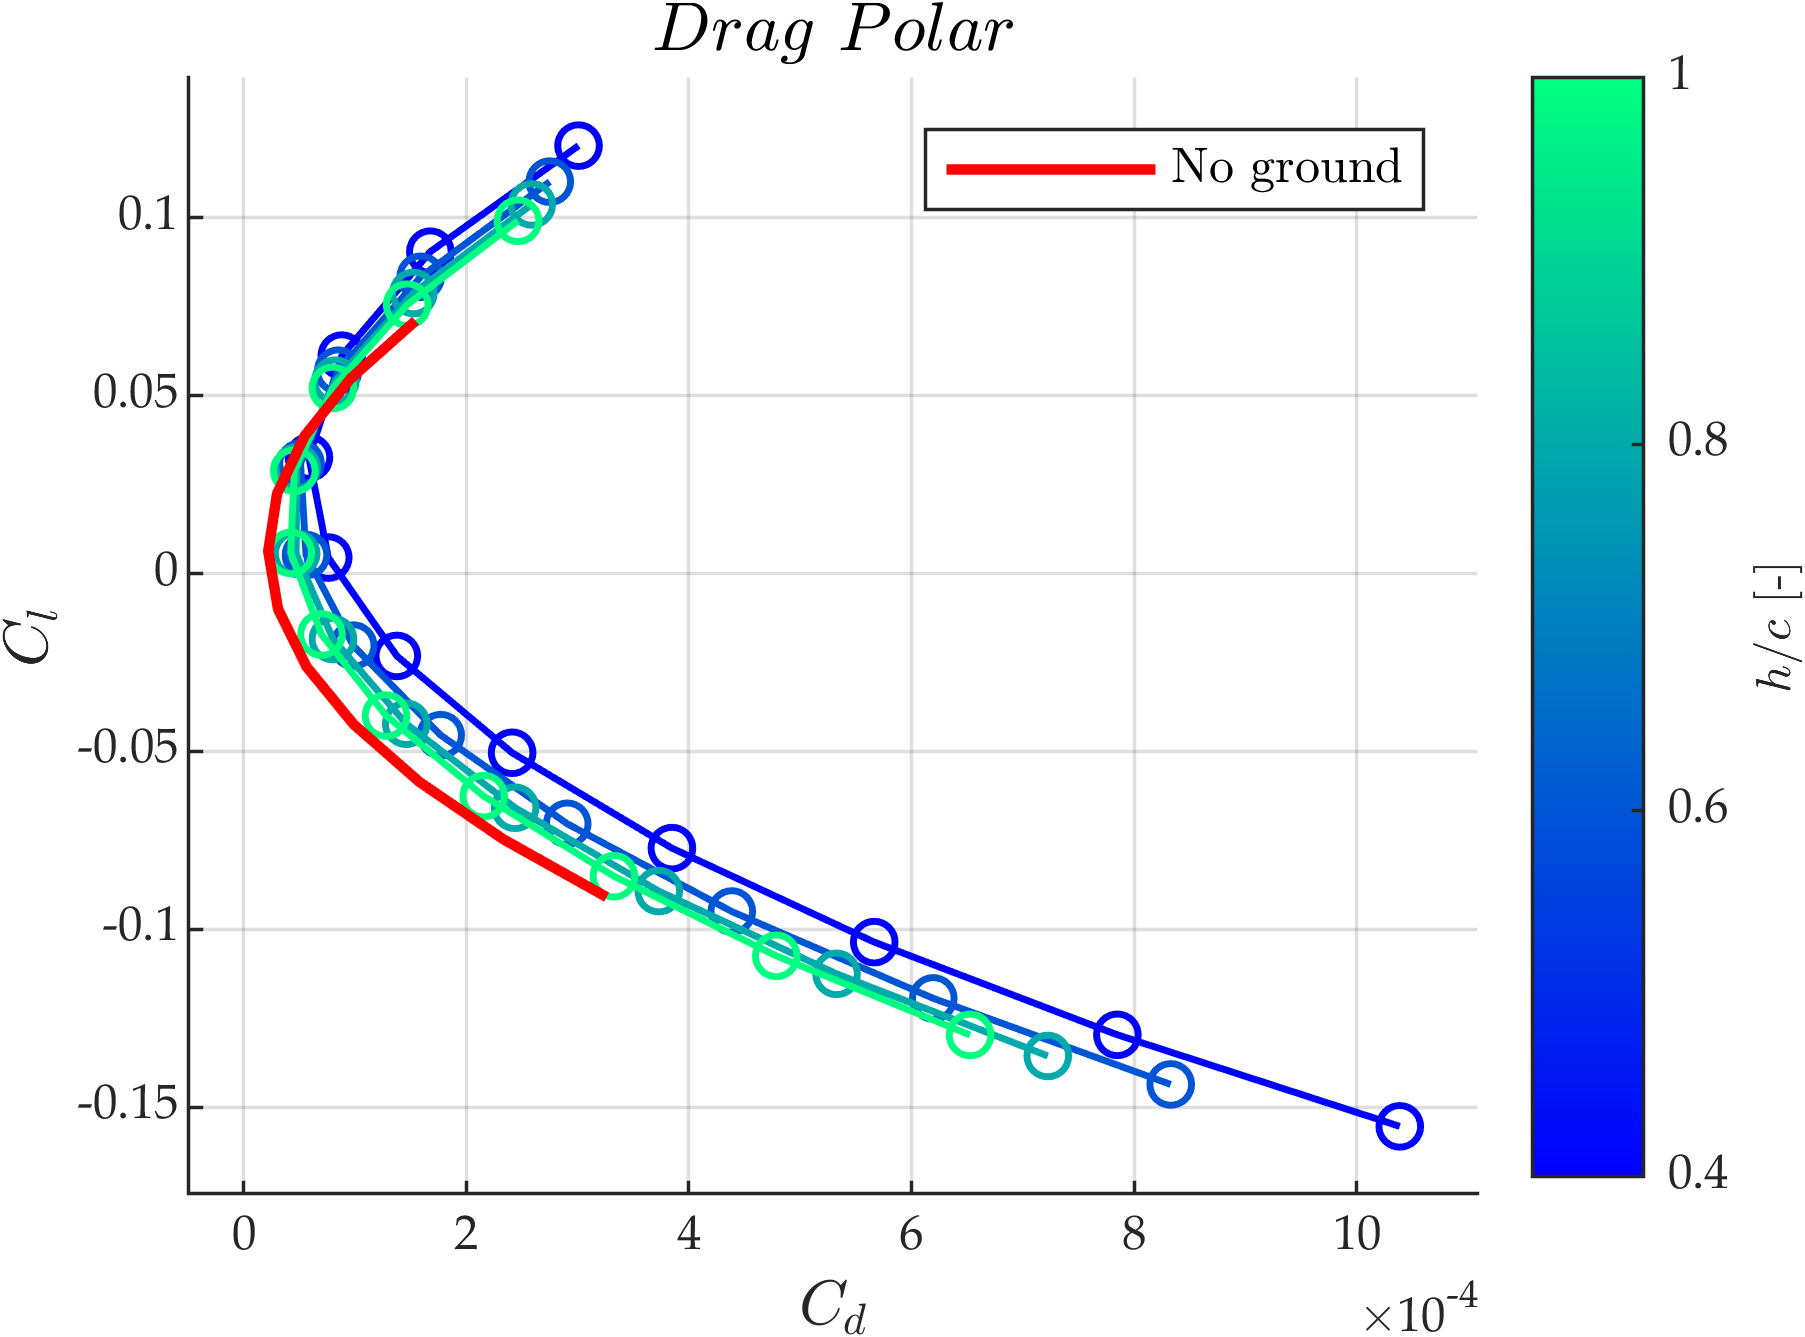
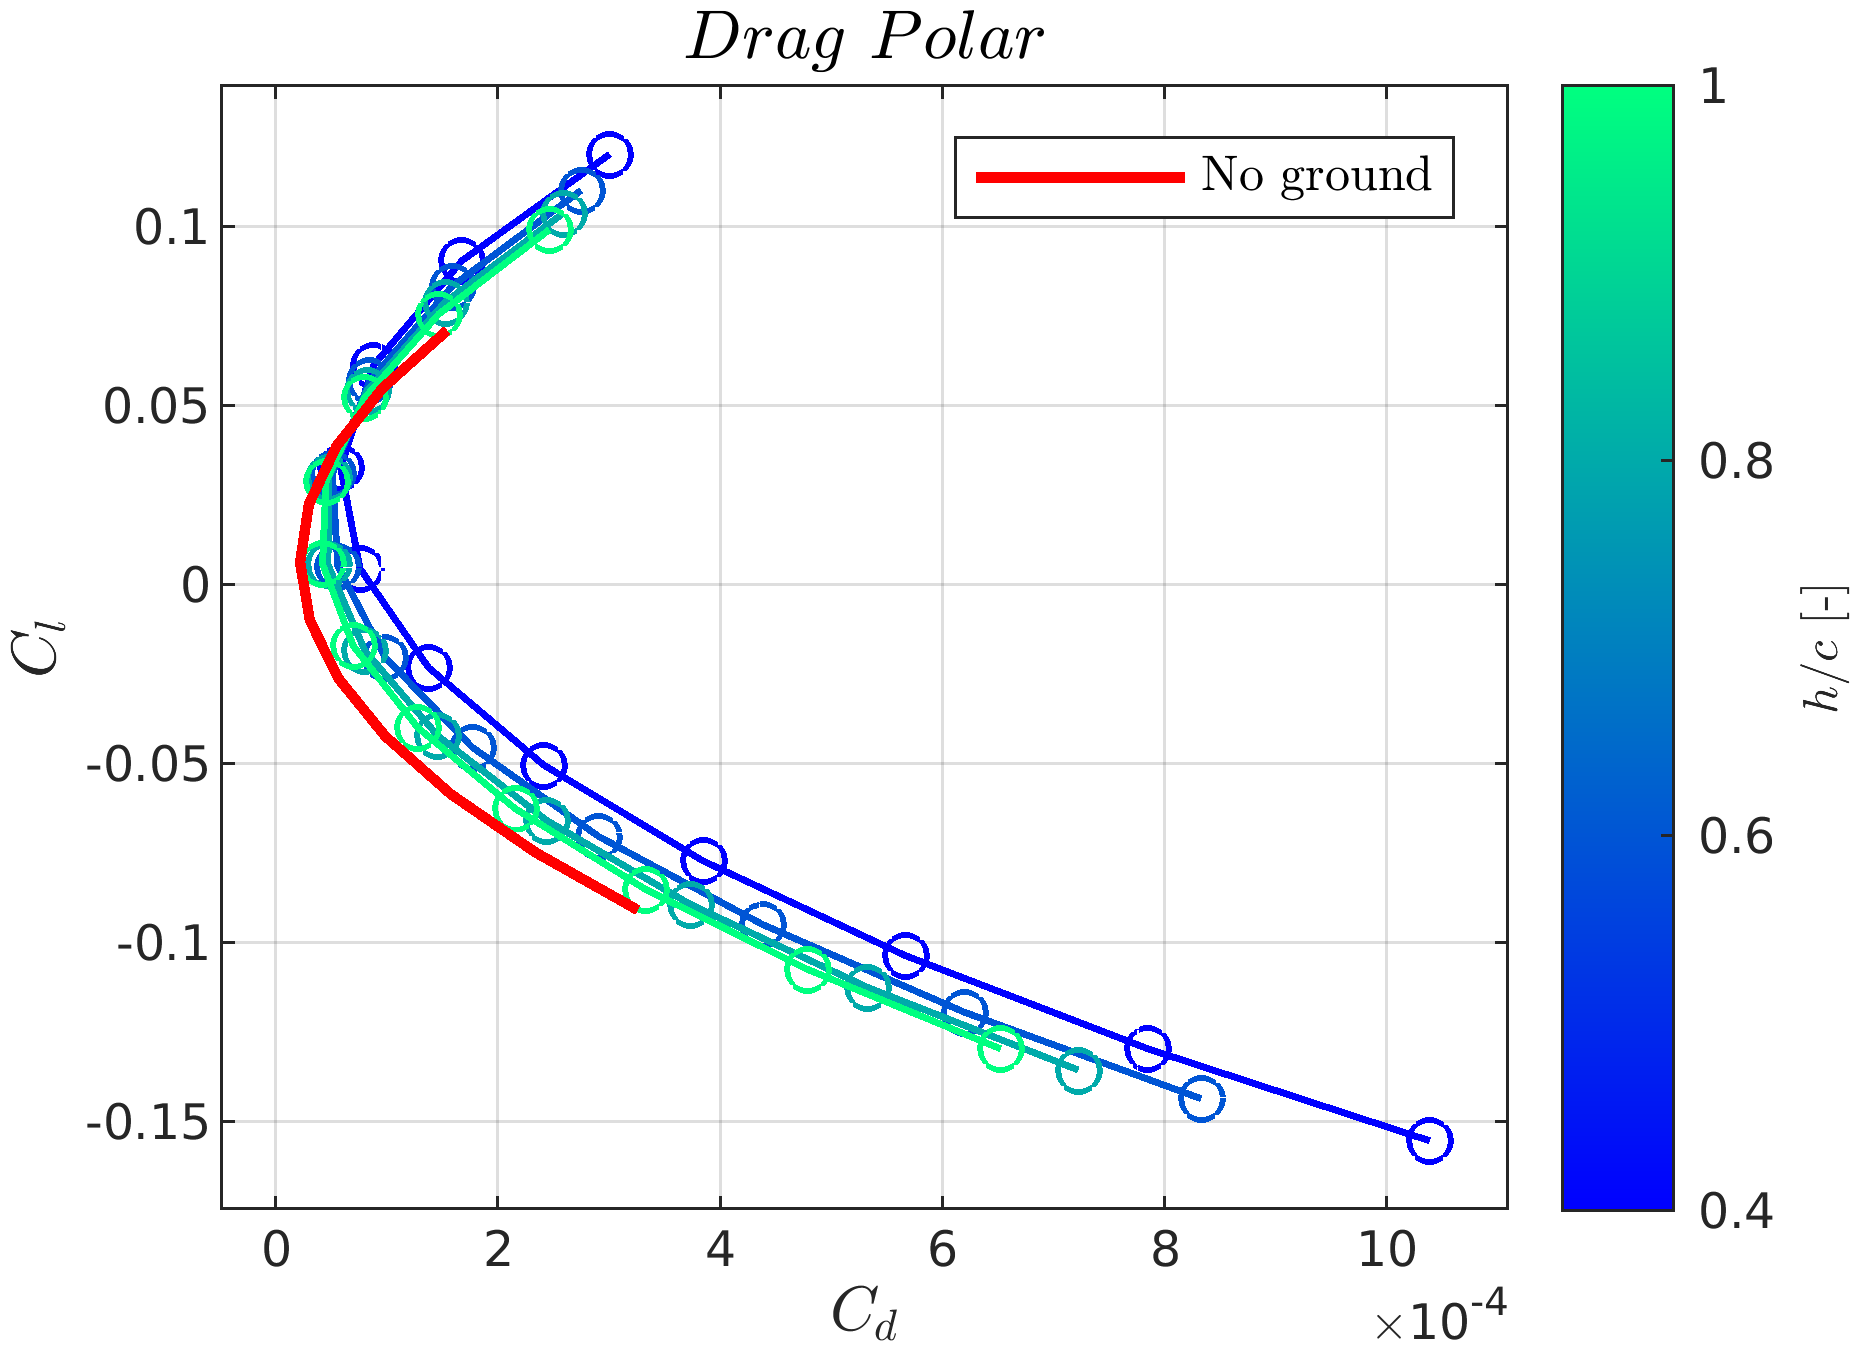
Weissinger code updated

diff --git a/Weissinger/WEISSINGER.m b/Weissinger/WEISSINGER.m
@@ -1,31 +1,9 @@
-% WEISSINGER.m computes the velocity around a finite 3D wing, invested by
-% an external flow of U_inf=1.
-% The wing and the tailplane can have multiple displacement realtively to
-% the airstream and their position is described by aerodynamic angles
-%
-% INPUT:
-%   WING properties:
-%       sweep angle            -- lambda                    [deg]
-%       dihedral angle         -- delta                     [deg]
-%       root chord             -- root
-%       semi-wing length       -- L
-%       taper ratio            -- taper
-%       AOA                    -- wing/tail angle of attack [deg]
-%       # of spanwise panels   -- M
-%       # of chordwise panels  -- N
-%
-%   AIRSTREAM properties:
-%       airflow incidence      -- alpha [deg]
-%       sideslip angle         -- beta  [deg]
-%       U                         = 1   [m/s]
-%       rho                       = 1   [kg/m**3]
 
-%% Coefficients computation @ initial conditions
 close all
 clear
 clc
 
-% Initializing path
+
 flpath = pwd;
 addpath(append(flpath,'/main/'));
 
@@ -35,7 +13,7 @@ tic
 alpha     = 0;
 beta      = 0;
 
-% GEOMETRIC properties
+% GEOMETRY
 delta     = 0;
 lambda    = 0;
 root      = 8;
@@ -43,7 +21,7 @@ L         = 15;
 taper     = 1;
 AOA       = 0;
 
-% DISCRETIZATION properties
+% DISCRETIZATION 
 M         = 10;
 N         = 5;
 alpha_vec = linspace(-4,8,30);
@@ -54,7 +32,7 @@ flag = "plot";
 [PANELwing] = PANELING(delta,lambda,AOA,root,taper,L,M,N,flag,[0,0,0]);
 
 % System matrix generation
-% Setting tolerance to avoid singular MATRIX
+
 toll        = 1e-4;
 [MATRIX]    = BIOTSAVART(PANELwing,AOA,M,N,L,toll);
 
@@ -100,7 +78,7 @@ addpath(append(flpath,'/main/'));
 tic
 
 % TAPER RATIO study
-% GEOMETRY properties
+% GEOMETRY
     delta     = 0;
     lambda    = 0;
     root      = 8;
@@ -110,7 +88,7 @@ tic
 % AERODYNAMIC properties
     beta      = 0;
 
-% DISCRETIZATION properties
+% DISCRETIZATION
     M         = 10;
     N         = 5;
     alpha_vec = linspace(0,5,30);
@@ -156,14 +134,14 @@ TEXT = "$\lambda = " + string(TAPERvec) + "$";
 legend(TEXT,'Interpreter','latex','location','best');
 
 % DIHEDRAL study
-% GEOMETRY properties
+% GEOMETRY 
     lambda    = 0;
     root      = 8;
     L         = 30;
     taper     = 1;
     AOA       = 0;
 
-% DIHEDRAL discretization properties
+% DIHEDRAL discretization 
     DELTAvec  = 0:1:5;
 
 % Plotting options
@@ -177,7 +155,7 @@ for delta = DELTAvec
     [PANELwing] = PANELING(delta,lambda,AOA,root,taper,L,M,N,flag,[0,0,0]);
 
     % System matrix generation
-    % Setting tolerance to avoid singular MATRIX 
+    
     toll        = 1e-4;
     [MATRIX]    = BIOTSAVART(PANELwing,AOA,M,N,L,toll);
     
@@ -210,7 +188,7 @@ legend(TEXT,'Interpreter','latex','location','best');
     taper     = 1;
     AOA       = 0;
 
-% DISCRETIZATION properties
+% DISCRETIZATION 
     LAMBDAvec = 0:10:30;
 
 % Plotting options
@@ -225,7 +203,7 @@ for lambda = LAMBDAvec
     [PANELwing] = PANELING(delta,lambda,AOA,root,taper,L,M,N,flag,[0,0,0]);
 
     % System matrix generation
-    % Setting tolerance to avoid singular MATRIX 
+    
     toll        = 1e-4;
     [MATRIX]    = BIOTSAVART(PANELwing,AOA,M,N,L,toll);
     
@@ -261,7 +239,7 @@ close all
 clear
 clc
 
-% Initializing path
+
 flpath = pwd;
 addpath(append(flpath,'/main/'));
 
@@ -384,7 +362,7 @@ toc
 flpath = pwd;
 rmpath(append(flpath,'/main/'));
 
-%% Computing ground effect
+%% ground effect
 close all
 clear
 clc
@@ -594,6 +572,7 @@ legend(und_plot1,'No ground','fontsize', fSizeLeg, 'interpreter', 'latex', 'Loca
 grid on
 axis padded
 fontname(figure_GroundEffectAlpha,"Palatino Linotype")
+box on
 set(figure_GroundEffectAlpha,'units','centimeters','position',[0,0,10,7]);   % setted for the report layout
 exportgraphics(figure_GroundEffectAlpha,"figures\GroundEffectAlpha.png",'Resolution',500);
 
@@ -605,6 +584,7 @@ legend(und_plot3,'No ground','fontsize', fSizeLeg, 'interpreter', 'latex', 'Loca
 grid on
 axis padded
 fontname(figure_DragPolar,"Palatino Linotype")
+box on
 set(figure_DragPolar,'units','centimeters','position',[0,0,10,7]);   % setted for the report layout
 exportgraphics(figure_DragPolar,"figures\DragPolar.png",'Resolution',500);
 
@@ -618,6 +598,7 @@ axis padded
 xlim([-0.5e-4 2.5e-4])    
 ylim([0 0.1])
 fontname(figure_DragPolarZoom,"Palatino Linotype")
+box on
 set(figure_DragPolarZoom,'units','centimeters','position',[0,0,10,7]);   % setted for the report layout
 exportgraphics(figure_DragPolarZoom,"figures\DragPolarZoom.png",'Resolution',500);
 
